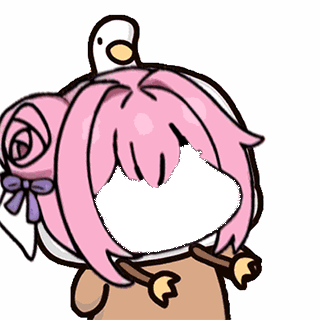
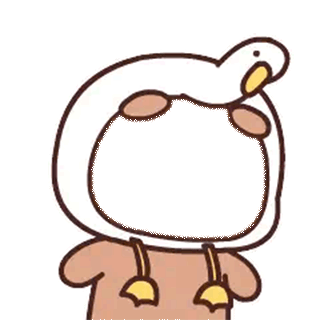
doro鸭

diff --git a/memes/doroya/__init__.py b/memes/doroya/__init__.py
@@ -1,5 +1,6 @@
 from datetime import datetime
 from pathlib import Path
+from math import pi, cos, sin
 import numpy as np
 
 from PIL.Image import Image as IMG
@@ -12,37 +13,19 @@ img_dir = Path(__file__).parent / "images"
 
 
 def doroya(images: list[BuildImage], texts, args):
-    img = images[0].convert("RGBA").circle().resize((150, 150))  # 用户头像
+    img = images[0].convert("RGBA").circle().resize((192, 156))  # 用户头像
 
-    # 定义旋转角度（顺时针为正，逆时针为负）
-    rotate_angles = [0, -15, 5, 15, 30, 5]  # 1和2帧顺时针15°，3、4、5帧逆时针15°
-    
-    # 定义各帧的位置
+    # fmt: off
     locs = [
-        (124, 135), (124, 135), (124, 120), (105, 115), (83, 110), (100, 112)
+        (88, 82), (88, 85), (52, 89), (90, 77), (84, 88), (52, 88)
     ]
-    
-    # 获取背景图片的大小
-    background_size = BuildImage.open(img_dir / "0.png").size
-    
+    # fmt: on
     frames: list[IMG] = []
     for i in range(6):
-        # 创建透明背景图
-        transparent_background = BuildImage.new("RGBA", background_size, (0, 0, 0, 0))
-        
-        # 旋转头像
-        rotated_img = img.rotate(rotate_angles[i] if i < len(rotate_angles) else 0, expand=True)
-        
-        # 将旋转后的头像粘贴到透明背景图的指定位置
-        transparent_background.paste(rotated_img, locs[i % len(locs)], alpha=True)
-        
-        # 打开背景图片并粘贴到透明背景图上
-        background = BuildImage.open(img_dir / f"{i}.png")
-        transparent_background.paste(background, alpha=True)
-        
-        frames.append(transparent_background.image)
-    
-    return save_gif(frames, 0.08)
+        frame = BuildImage.open(img_dir / f"{i}.png")
+        frame.paste(img, locs[i], alpha=True)
+        frames.append(frame.image)
+    return save_gif(frames, 0.1)
 
 
 add_meme(
